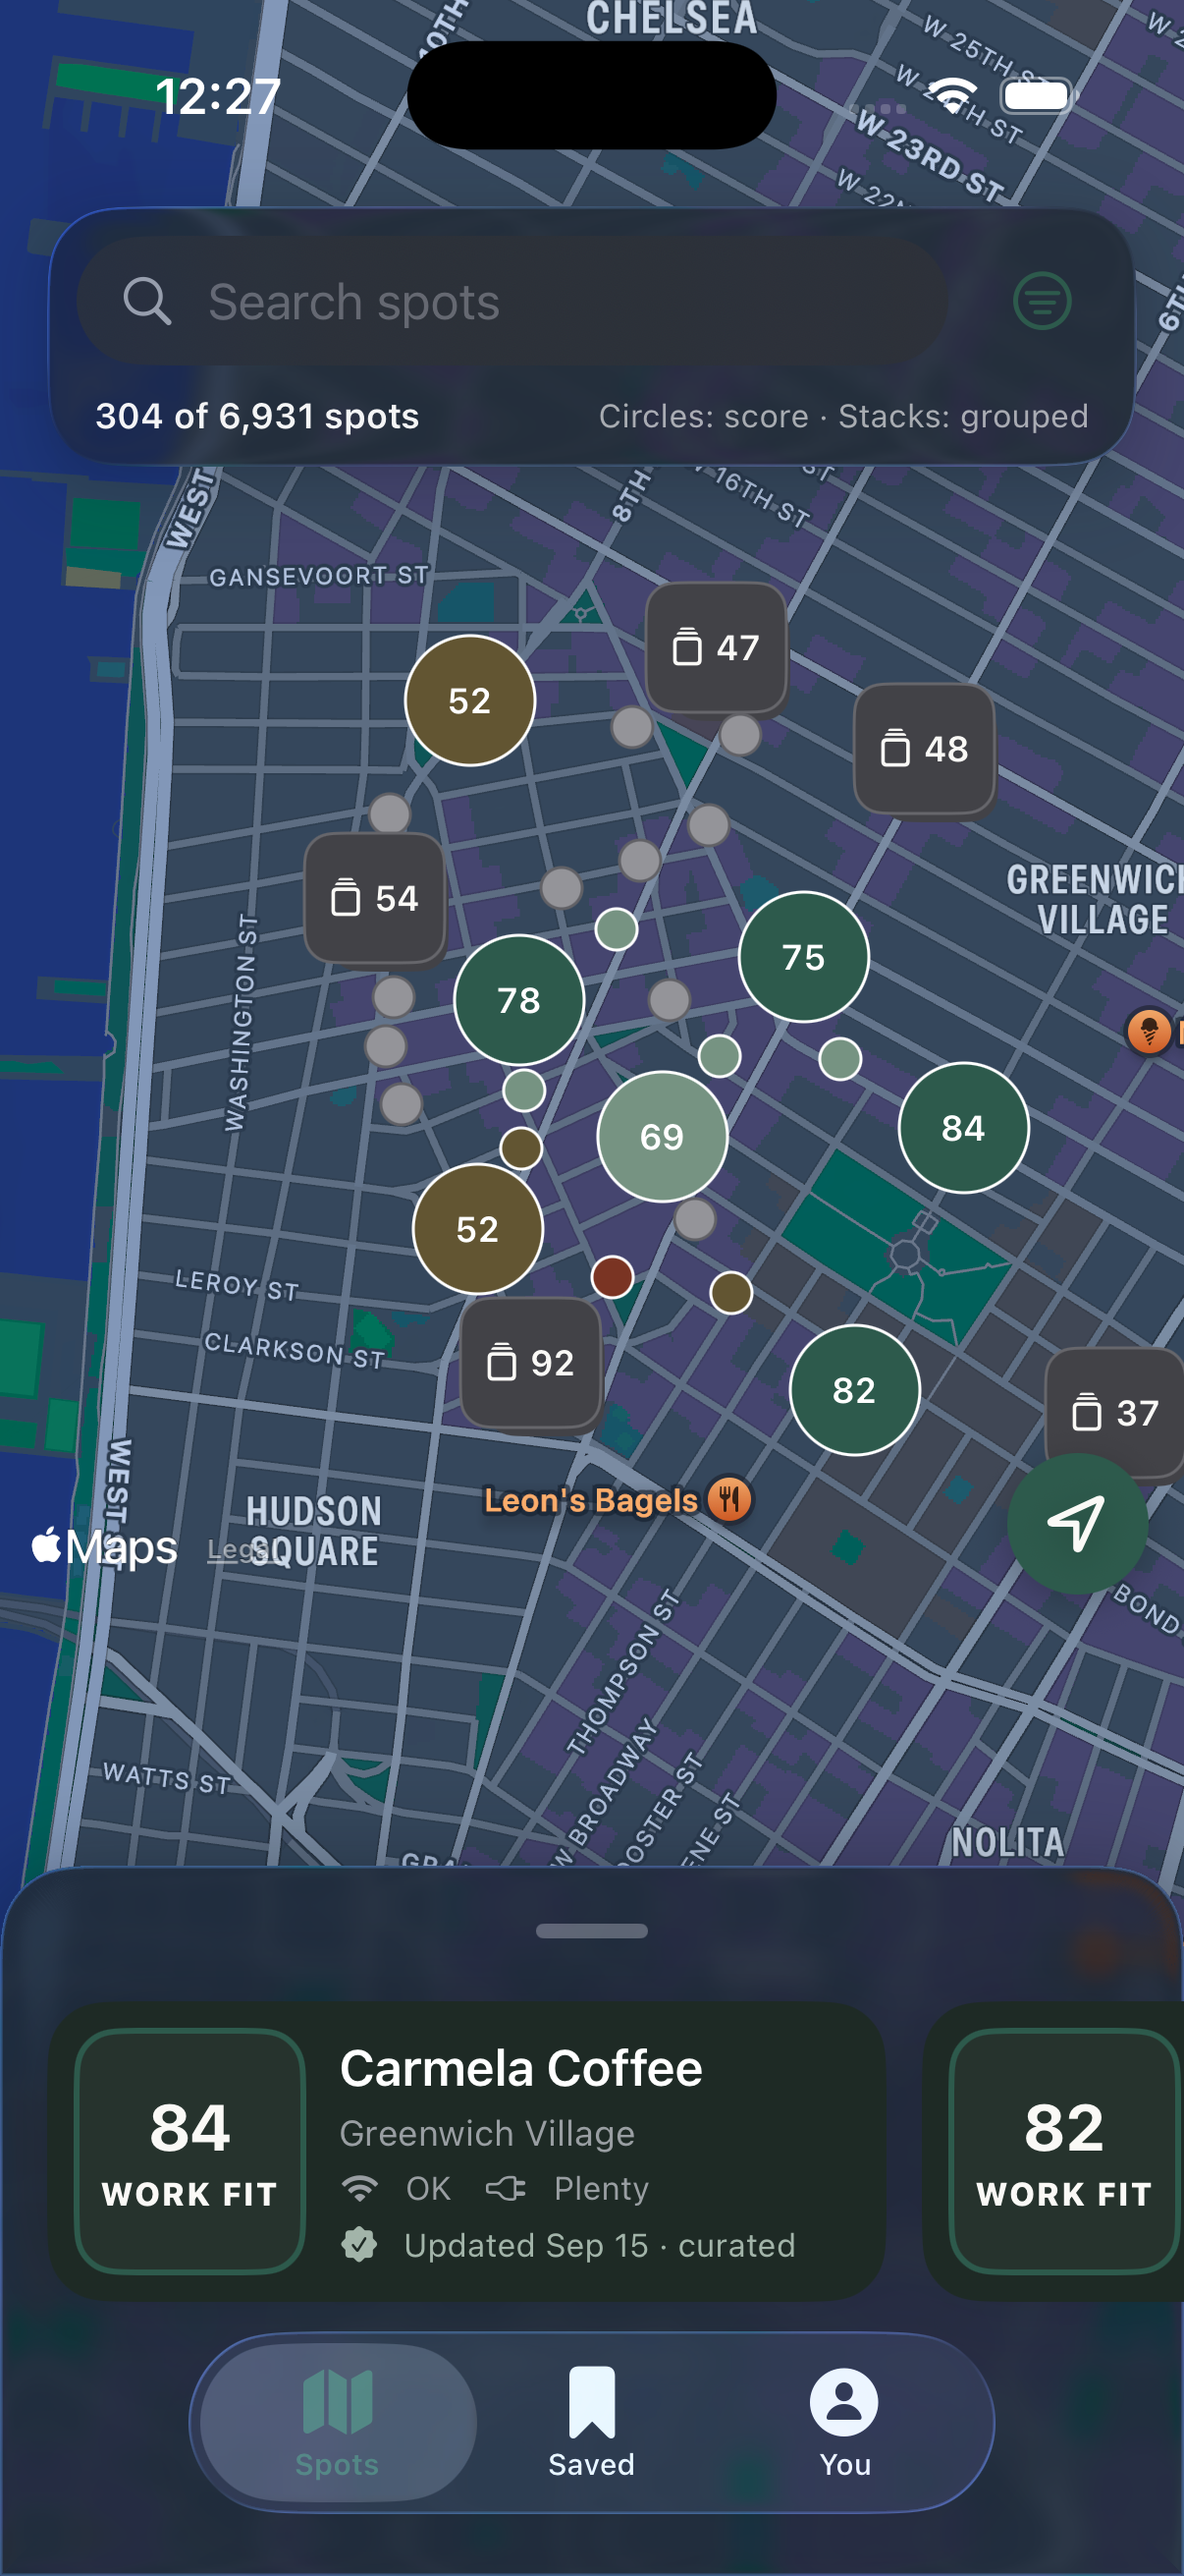
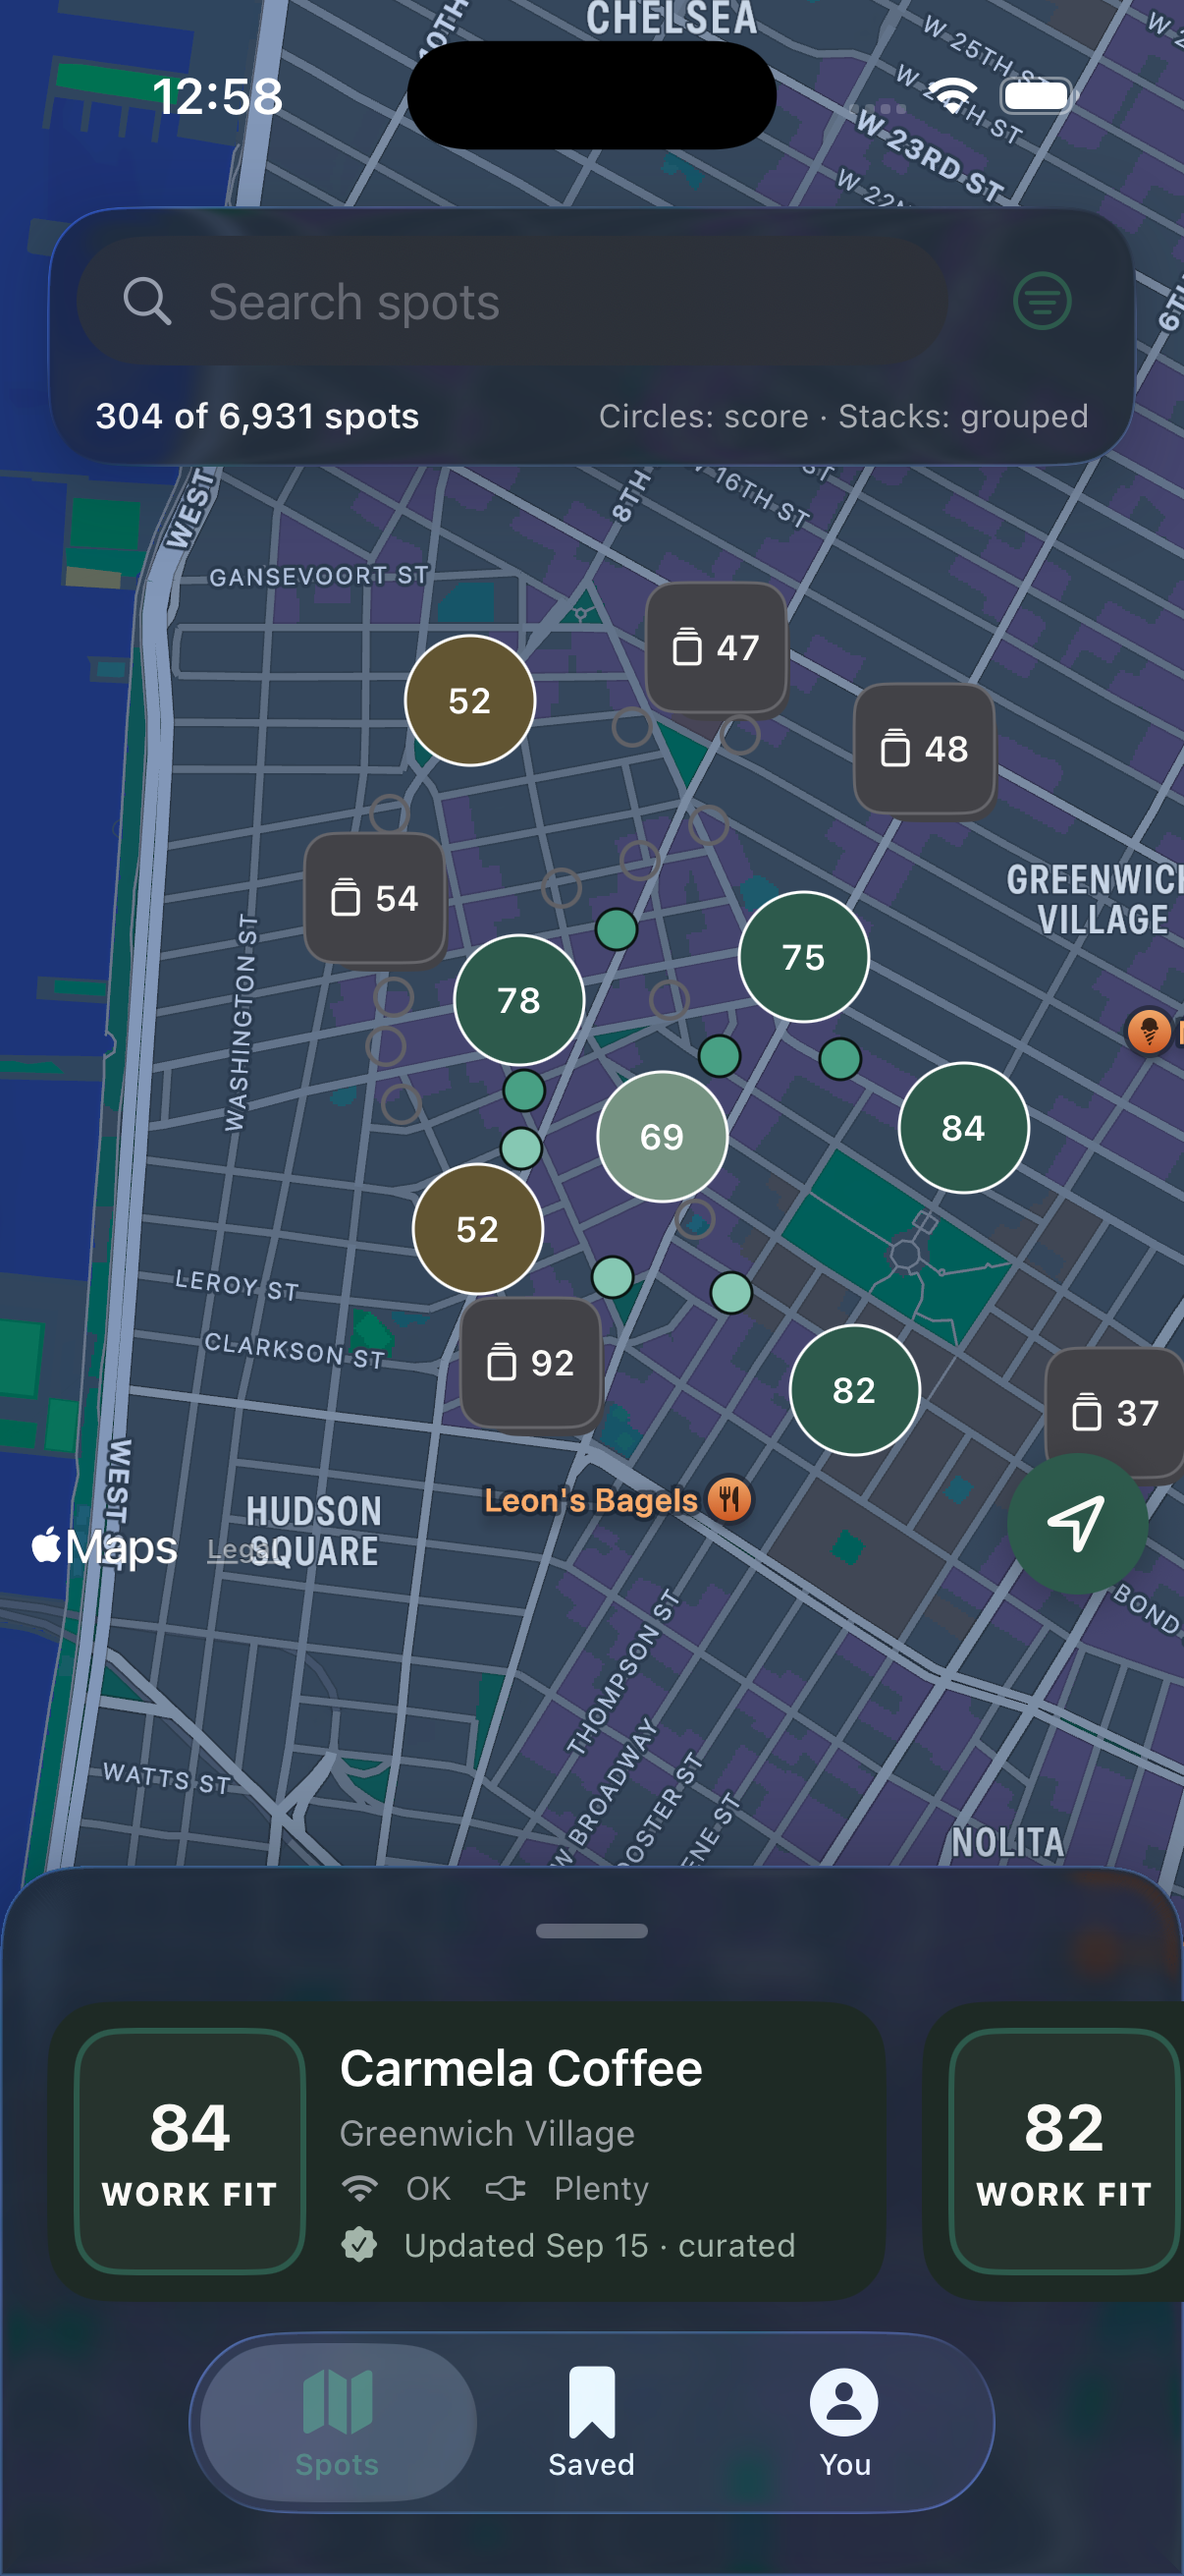
fix: single-hue lightness-only observed dots, hollow unobserved rings (bd#211)
Supervisor review: chrome exclusion and the launch-pill fix both passed a
live-density re-check. One remaining spec error: observed dots were
tinted by `ScoreTier.color` directly — four DIFFERENT hues (dark green,
sage, olive, brick-red). Dots carry no number, so a hue-only tier signal
is exactly what a red-green colorblind reader can't reliably use.

## Observed dots: single hue, lightness-only tier

`BrewDeskPalette.observedDotColor(for:)` replaces `venue.scoreTier.color`
for dots: ONE hue (brand primary green, ~161°) at three lightness steps —
darkest/most saturated wins, lightest loses. Capped at 3 steps though
there are 4 `ScoreTier` cases: `mixed` and `weak` share the lightest step
— dots are the high-density, lower-priority representation, and any venue
where great/good/mixed/weak actually needs distinguishing always wins a
PIN slot instead (bd#204/#209), where the real number carries that
distinction, not color.

Adaptive per appearance (light mode uses darker steps, dark mode lighter
ones) rather than one fixed ramp — a single color can't hit >=3:1 against
both a light AND a dark basemap simultaneously (the luminance a light
background needs is structurally different from what a dark one needs).
Derived numerically (see the palette's own doc comments for the
candidates considered): every step >=3:1 against the app's own
light/dark background in its own appearance, every adjacent pair within
an appearance >=1.6:1 apart, hue spread under 2° in both appearances
[…]

diff --git a/Packages/BrewDeskKit/Sources/BrewDeskKit/BrewDeskStyle.swift b/Packages/BrewDeskKit/Sources/BrewDeskKit/BrewDeskStyle.swift
@@ -1,5 +1,6 @@
 import SwiftUI
 import UIKit
+import VenueKit
 
 /// Warm Utilitarian (brewdesk#98): green/sand/sage system, replacing the
 /// espresso/cream coffee palette. Every role below is a 9-step ramp from
@@ -55,9 +56,14 @@ public enum BrewDeskPalette {
     public static let foam = hex(neutralRamp[8])
     /// Tertiary sage — "good" tier fill, icon glyphs, subtle tints.
     public static let moss = hex(tertiaryRamp[5])
-    /// Destructive — "mixed" tier / error fill and icon glyphs.
+    /// Destructive — "weak" tier fill (bd#211; previously unused by any
+    /// tier despite its doc history, and previously misdescribed here —
+    /// `berry` below was the actual pre-bd#211 "weak" fill) and general
+    /// error fill/icon glyphs.
     public static let clay = hex(destructiveRamp[5])
-    /// Destructive, deeper — "weak" tier fill.
+    /// Destructive, deeper. No longer a tier fill as of bd#211 (see `clay`
+    /// above) — still used for other destructive states (e.g. "closed"
+    /// status) elsewhere in the app.
     public static let berry = hex(destructiveRamp[4])
     /// Sand, deepened for legibility under white text — "mixed" tier fill.
     /// Replaces the old teal `ocean` (unused after the tier re-map onto
@@ -78,6 +84,53 @@ public enum BrewDeskPalette {
     /// with a darker grey edge keeps each dot legible as its own shape even
     /// when several sit close together, without introducing red/green.
     public static let unobservedDotStroke = Color(red: 0.38, green: 0.38, blue: 0.40)
+
+    // MARK: - bd#211: observed dot fills — single hue, lightness-only tier
+
+    /// Observed map dots used to tint by `ScoreTier.color` directly — four
+    /// DIFFERENT hues (green/sage/olive/brick), exactly the kind of signal a
+    /// red-green colorblind viewer can't reliably read, and dots carry no
+    /// number to fall back on (unlike a pin). These three tokens replace
+    /// that: ONE hue (the brand primary green, ~161°) at three lightness
+    /// steps — darkest/most saturated = best tier, lightest = weakest.
+    /// Capped at 3 steps though there are 4 tiers: `mixed` and `weak` share
+    /// the lightest step (`observedDotWeak`) — dots are the high-density,
+    /// lower-priority representation; a venue where great-vs-good-vs-mixed-
+    /// vs-weak actually matters always wins a PIN slot instead (bd#204/
+    /// #209), where the real number carries that distinction.
+    ///
+    /// Adaptive per appearance rather than one fixed ramp: a single color
+    /// can't hit 3:1 against both a light AND a dark basemap at once (the
+    /// luminance a light background needs is structurally different from
+    /// what a dark one needs), so light mode uses darker steps and dark
+    /// mode uses lighter ones, each internally ordered the same way.
+    /// Verified (see the bd#211 PR's contrast table): every step is
+    /// >=3:1 against `page` in its own appearance, and every adjacent pair
+    /// within an appearance is >=1.6:1 apart. Hue spread across all three
+    /// steps, either appearance, is under 2° — see `ScoreBadgeContrastTests
+    /// .observedDotPaletteIsSingleHueAndLightnessOrdered`.
+    static let observedDotGreat = adaptive(light: hex("#0E201A"), dark: hex("#367863"))
+    static let observedDotGood = adaptive(light: hex("#20483B"), dark: hex("#48A084"))
+    static let observedDotWeak = adaptive(light: hex("#306B59"), dark: hex("#86C8B3"))
+
+    /// `ScoreTier` → the 3-step dot ramp above.
+    public static func observedDotColor(for tier: ScoreTier) -> Color {
+        switch tier {
+        case .great: observedDotGreat
+        case .good: observedDotGood
+        case .mixed, .weak: observedDotWeak
+        }
+    }
+
+    /// Hairline stroke for an OBSERVED dot — flips which way it's lighter
+    /// than the fill, by appearance, so it always reads as a defined edge:
+    /// light mode's fills are very dark (see above), so a light stroke
+    /// separates the dot from a light basemap the same way the old
+    /// always-white stroke did; dark mode's fills are lighter (so they
+    /// already read against a dark basemap on their own), and a dark
+    /// stroke instead defines the edge crisply rather than washing out
+    /// against an already-light fill.
+    public static let observedDotStroke = adaptive(light: foam, dark: hex("#0A1411"))
     /// Muted secondary-text tone (light mode only; dark mode is
     /// `secondaryText` below — "sand becomes text-secondary" in dark).
     /// Between ramp steps 2 and 3: step 3 alone (`#897746`) undershoots

diff --git a/Packages/BrewDeskKit/Tests/BrewDeskKitTests/ScoreBadgeContrastTests.swift b/Packages/BrewDeskKit/Tests/BrewDeskKitTests/ScoreBadgeContrastTests.swift
@@ -66,4 +66,84 @@ struct ScoreBadgeContrastTests {
         let ratio = contrastRatio(.white, BrewDeskPalette.moss, style: .light)
         #expect(ratio < 4.5, "if this ever passes, the badge redesign's rationale (bd#209) needs re-checking")
     }
+
+    // MARK: - bd#211: observed dot palette — single hue, lightness-ordered
+
+    private func rgb(_ color: Color, style: UIUserInterfaceStyle) -> (r: Double, g: Double, b: Double) {
+        let resolved = UIColor(color).resolvedColor(with: UITraitCollection(userInterfaceStyle: style))
+        var r: CGFloat = 0, g: CGFloat = 0, b: CGFloat = 0, a: CGFloat = 0
+        resolved.getRed(&r, green: &g, blue: &b, alpha: &a)
+        return (Double(r), Double(g), Double(b))
+    }
+
+    /// Hue in degrees (0..<360), HSL convention — 0 undefined (achromatic)
+    /// components report 0, which never happens for the saturated brand
+    /// green this palette uses.
+    private func hueDegrees(_ c: (r: Double, g: Double, b: Double)) -> Double {
+        let maxC = max(c.r, c.g, c.b)
+        let minC = min(c.r, c.g, c.b)
+        let delta = maxC - minC
+        guard delta > 0 else { return 0 }
+        var hue: Double
+        if maxC == c.r {
+            hue = 60 * (((c.g - c.b) / delta).truncatingRemainder(dividingBy: 6))
+        } else if maxC == c.g {
+            hue = 60 * (((c.b - c.r) / delta) + 2)
+        } else {
+            hue = 60 * (((c.r - c.g) / delta) + 4)
+        }
+        if hue < 0 { hue += 360 }
+        return hue
+    }
+
+    /// bd#211: the whole point of the redesign — observed dots used to tint
+    /// by `ScoreTier.color` (four different hues), which a red-green
+    /// colorblind viewer can't reliably read on a marker with no number.
+    /// Every step of the new ramp must share ONE hue family (brand green,
+    /// spread under 15°) in BOTH appearances, and lightness must strictly
+    /// increase from `great` (darkest/most saturated) to `weak`/`mixed`
+    /// (lightest) — tier is legible by lightness alone.
+    @Test func observedDotPaletteIsSingleHueAndLightnessOrdered() {
+        for style in [UIUserInterfaceStyle.light, .dark] {
+            let steps = [
+                BrewDeskPalette.observedDotGreat,
+                BrewDeskPalette.observedDotGood,
+                BrewDeskPalette.observedDotWeak,
+            ].map { rgb($0, style: style) }
+
+            let hues = steps.map(hueDegrees)
+            let spread = (hues.max() ?? 0) - (hues.min() ?? 0)
+            #expect(spread < 15, "\(style == .light ? "light" : "dark") mode dot palette hue spread \(spread)° — must read as one hue family")
+
+            let luminances = steps.map { c in
+                relativeLuminance(UIColor(red: c.r, green: c.g, blue: c.b, alpha: 1))
+            }
+            #expect(
+                luminances[0] < luminances[1] && luminances[1] < luminances[2],
+                "\(style == .light ? "light" : "dark") mode dot palette must be strictly lightness-ordered great < good < weak, got \(luminances)"
+            )
+
+            // Each step must clear the ticket's own >=1.6:1 adjacent-step bar.
+            for i in 1..<luminances.count {
+                let ratio = (luminances[i] + 0.05) / (luminances[i - 1] + 0.05)
+                #expect(ratio >= 1.6, "\(style == .light ? "light" : "dark") mode step \(i) only \(ratio):1 from its neighbour, need >=1.6:1")
+            }
+        }
+    }
+
+    /// Every dot step should clear 3:1 against the app's own background in
+    /// its own appearance — the best available proxy for "the map", since
+    /// the real basemap's colors aren't something this package controls or
+    /// can script against directly.
+    @Test func observedDotPaletteClearsThreeToOneAgainstItsOwnAppearanceBackground() {
+        let lightSteps: [Color] = [BrewDeskPalette.observedDotGreat, BrewDeskPalette.observedDotGood, BrewDeskPalette.observedDotWeak]
+        for step in lightSteps {
+            let ratio = contrastRatio(step, BrewDeskPalette.page, style: .light)
+            #expect(ratio >= 3, "light mode dot step vs. page background: \(ratio):1")
+        }
+        for step in lightSteps {
+            let ratio = contrastRatio(step, BrewDeskPalette.page, style: .dark)
+            #expect(ratio >= 3, "dark mode dot step vs. page background: \(ratio):1")
+        }
+    }
 }

diff --git a/Packages/BrewDeskKit/Sources/BrewDeskKit/MapAnnotationViews.swift b/Packages/BrewDeskKit/Sources/BrewDeskKit/MapAnnotationViews.swift
@@ -58,16 +58,33 @@ struct VenueScorePin: View {
 /// also now guarantees ≥14pt centre-to-centre spacing between any two
 /// placed dots, so true full overlap can no longer happen at all — this
 /// styling fix is what keeps a near-miss legible on top of that.
+///
+/// bd#211: observed used to tint by `venue.scoreTier.color` directly — four
+/// DIFFERENT hues (green/sage/olive/brick) with no number to anchor them,
+/// exactly the signal a red-green colorblind viewer can't read reliably.
+/// Now a SINGLE hue at three lightness steps (`BrewDeskPalette
+/// .observedDotColor(for:)`) — darkest/most saturated wins, lightest
+/// loses. Unobserved and observed are ALSO now differentiated by shape,
+/// not just color/lightness: unobserved is a hollow ring (no fill),
+/// observed is a filled disc — so even the lightest observed step reads as
+/// unmistakably different from "not checked yet" at a glance.
 struct VenueScoreDot: View {
     let venue: Venue
 
     var body: some View {
-        Circle()
-            .fill(venue.isObserved ? venue.scoreTier.color : BrewDeskPalette.unobserved)
-            .stroke(venue.isObserved ? .white : BrewDeskPalette.unobservedDotStroke, lineWidth: 1)
-            .frame(width: 14, height: 14)
-            .frame(width: 30, height: 30)
-            .contentShape(Rectangle())
+        Group {
+            if venue.isObserved {
+                Circle()
+                    .fill(BrewDeskPalette.observedDotColor(for: venue.scoreTier))
+                    .overlay(Circle().stroke(BrewDeskPalette.observedDotStroke, lineWidth: 1))
+            } else {
+                Circle()
+                    .strokeBorder(BrewDeskPalette.unobservedDotStroke, lineWidth: 1.5)
+            }
+        }
+        .frame(width: 14, height: 14)
+        .frame(width: 30, height: 30)
+        .contentShape(Rectangle())
     }
 }
 

diff --git a/Packages/BrewDeskKit/Sources/BrewDeskKit/Components.swift b/Packages/BrewDeskKit/Sources/BrewDeskKit/Components.swift
@@ -7,12 +7,27 @@ extension ScoreTier {
     /// green → sage → sand → destructive (was moss/ocean/clay/berry). Fill
     /// only — these sit behind fixed white badge/pin text in both
     /// appearances, so each value stays static rather than adaptive.
+    ///
+    /// bd#211: `.weak` moved from `berry` to `clay` — a supervisor review
+    /// flagged a tier reading as "red" in a live screenshot. Verified: at
+    /// hue ~11–12°, `berry` and `clay` are hue-siblings from the same
+    /// destructive ramp (this swap is about `clay`'s brighter/more-orange
+    /// value reading less like blood-red and more like terracotta, not a
+    /// hue change), and a deuteranopia/protanopia simulation of all four
+    /// tiers shows `great`/`good` collapse toward neutral grey while
+    /// `mixed`/`weak` collapse toward olive — neither destructive-ramp
+    /// value simulates as anything resembling the green tiers, so this was
+    /// never actually a green-vs-red confusion risk for a colorblind
+    /// viewer. It reads as "red" to ORDINARY vision, though, which is
+    /// reason enough on its own: `clay` is a genuinely lighter, warmer
+    /// value than `berry` for that specific complaint. Pins still carry
+    /// the real number as their primary signal either way.
     public var color: Color {
         switch self {
         case .great: BrewDeskPalette.roast
         case .good: BrewDeskPalette.moss
         case .mixed: BrewDeskPalette.sand
-        case .weak: BrewDeskPalette.berry
+        case .weak: BrewDeskPalette.clay
         }
     }
 }
